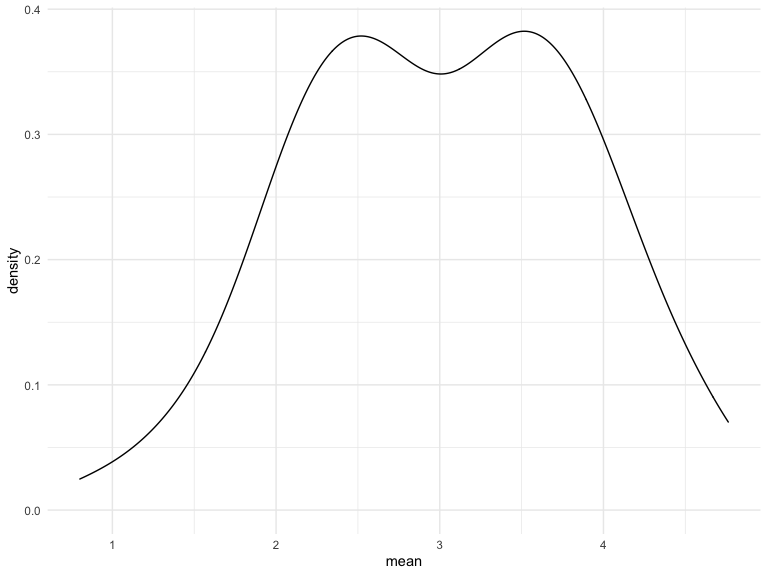
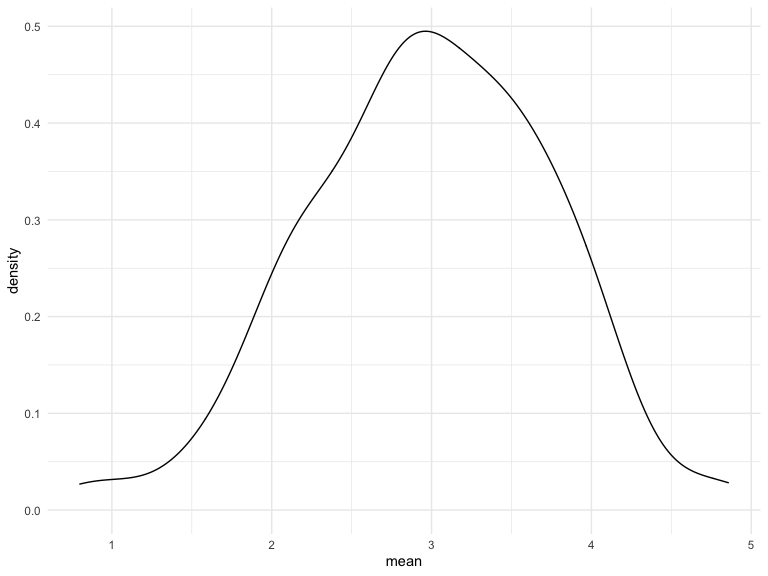
simulation!!!!!!!!

diff --git a/simulation.md b/simulation.md
@@ -28,7 +28,7 @@ sim_mean_sd(30)
     ## # A tibble: 1 x 2
     ##    mean    sd
     ##   <dbl> <dbl>
-    ## 1  4.29  4.45
+    ## 1  3.33  3.70
 
 ## Let’s simulate a lot
 
@@ -49,16 +49,16 @@ bind_rows(output)
     ## # A tibble: 100 x 2
     ##     mean    sd
     ##    <dbl> <dbl>
-    ##  1  3.35  4.23
-    ##  2  3.86  4.03
-    ##  3  3.78  4.61
-    ##  4  2.85  3.43
-    ##  5  2.74  4.01
-    ##  6  3.12  3.95
-    ##  7  3.77  4.46
-    ##  8  4.55  4.72
-    ##  9  2.45  3.47
-    ## 10  3.61  3.78
+    ##  1  3.53  3.18
+    ##  2  3.44  3.84
+    ##  3  3.45  3.53
+    ##  4  1.68  3.69
+    ##  5  3.95  4.22
+    ##  6  3.27  4.34
+    ##  7  2.05  4.05
+    ##  8  3.10  3.72
+    ##  9  3.55  4.11
+    ## 10  3.87  3.79
     ## # … with 90 more rows
 
 Lets’s use a loop function
@@ -97,4 +97,83 @@ sim_results %>%
     ## # A tibble: 1 x 2
     ##   avg_samp_mean sd_samp_mean
     ##           <dbl>        <dbl>
-    ## 1          3.01        0.859
+    ## 1          2.98        0.756
+
+## Let’s try other sample sizes
+
+``` r
+n_list = 
+  list(
+    "n = 30" = 30,
+    "n = 60" = 60,
+    "n = 120" = 120,
+    "n = 240" = 240
+  )
+
+output = vector("list", length = 4)
+
+output[[1]] = rerun(100, sim_mean_sd(samp_size = n_list[[1]])) %>% bind_rows()
+output[[2]] = rerun(100, sim_mean_sd(samp_size = n_list[[2]])) %>% bind_rows()
+
+for (i in 1:4) {
+  
+  output[[i]] = 
+    rerun(100, sim_mean_sd(samp_size = n_list[[i]])) %>% 
+    bind_rows()
+
+}
+```
+
+``` r
+# cache = TRUE
+sim_results = 
+  tibble(
+    sample_size = c(30, 60, 120, 240)
+  ) %>% 
+  mutate(
+    output_lists = map(.x = sample_size, ~rerun(100, sim_mean_sd(.x))),
+    estimate_df = map(output_lists, bind_rows)
+    )  %>%  # pull(estimate_df)
+  select(-output_lists) %>% 
+  unnest(estimate_df)
+
+# to be explicit
+# .x is the first element to be mapped
+```
+
+Do some data frame things.
+
+``` r
+sim_results %>% 
+  mutate(
+    sample_size = str_c("n = ", sample_size),
+    sample_size = fct_inorder(sample_size)
+  ) %>% 
+  ggplot(aes(x = sample_size, y = mean)) +
+  geom_violin()
+```
+
+<img src="simulation_files/figure-gfm/unnamed-chunk-8-1.png" width="90%" />
+
+``` r
+# inorder = it's already in the order
+```
+
+``` r
+sim_results %>% 
+  group_by(sample_size) %>% 
+  summarize(
+    avg_samp_mean = mean(mean),
+    sd_samp_mean = sd(mean)
+  )
+```
+
+    ## `summarise()` ungrouping output (override with `.groups` argument)
+
+    ## # A tibble: 4 x 3
+    ##   sample_size avg_samp_mean sd_samp_mean
+    ##         <dbl>         <dbl>        <dbl>
+    ## 1          30          3.01        0.758
+    ## 2          60          2.93        0.479
+    ## 3         120          3.04        0.355
+    ## 4         240          2.98        0.219
